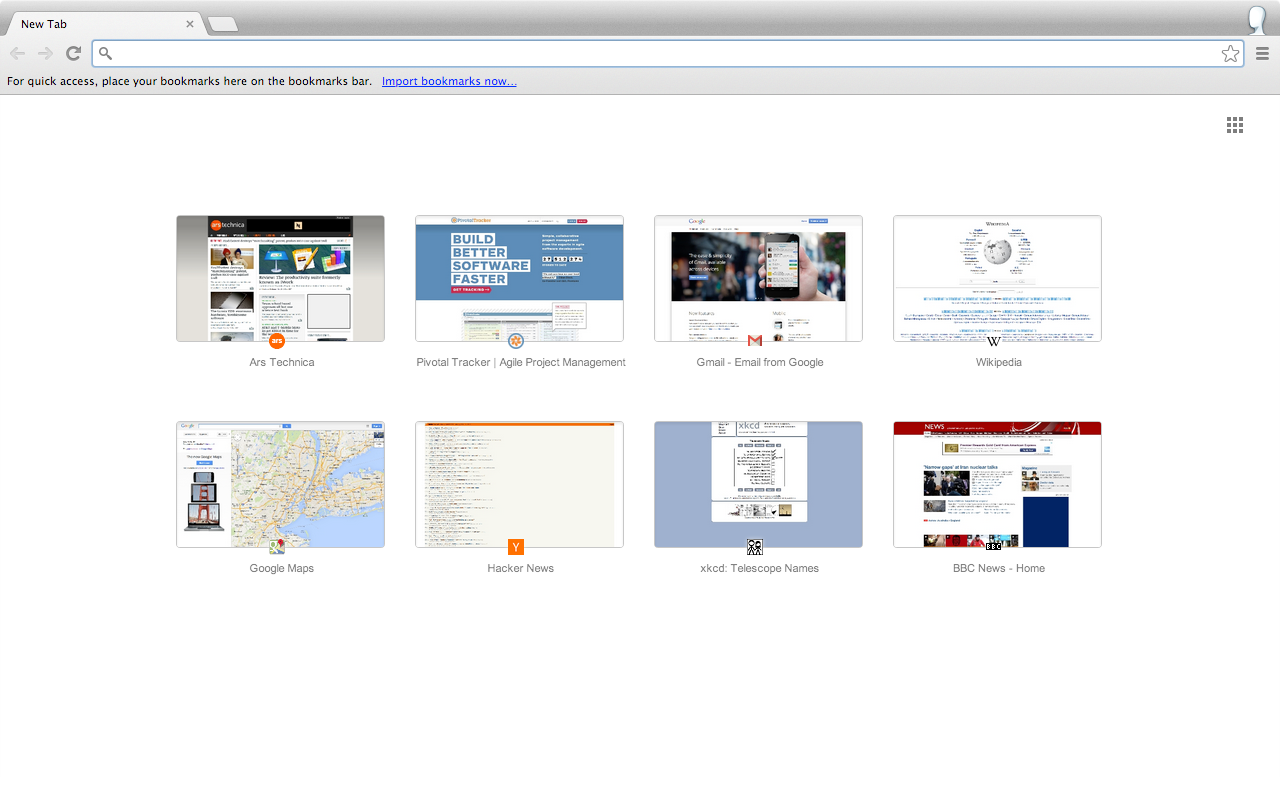
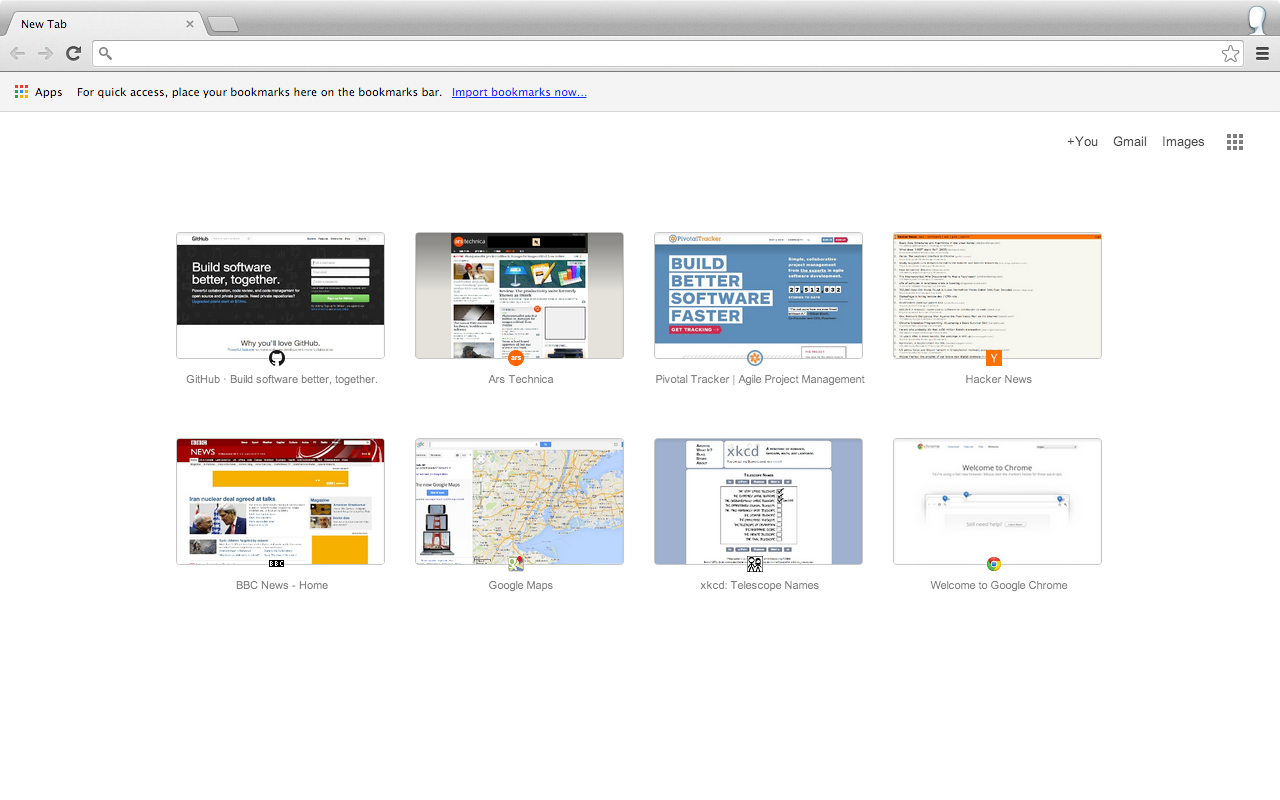
Update description and screenshot.

Changed region(s): [[0.125, 0.25, 0.875, 0.75], [0.0, 0.0, 1.0, 0.125], [0.8438, 0.1562, 0.9688, 0.1875]]

diff --git a/README.md b/README.md
@@ -1,10 +1,8 @@
 This Chrome extension does two things:
 
- * Removes the Google search box, doodles, social and product links from the New Tab page.
+ * Removes the Google search box and logo from the New Tab page.
  * Increases the size of the thumbnails for most visited sites.
- 
-In short, it goes back to the way Chrome used to work, prior to Google marketing taking over the New Tab page.
 
 ### This extension uses no JavaScript.
 
-All it does is include an extra css file in the New Tab page. The extension requires the _"Access to data on www.google.com"_ permission solely because that is the only way to inject extra styles into the `chrome://newtab` page. It doesn't actually do anything with that permission since there is no JavaScript in this extension at all. Moreover, the css is only included for `https://www.google.com/webhp`.
+All it does is include an extra css file in the New Tab page. The extension requires the _"Access to data on www.google.com"_ permission solely because that is the only way to inject extra styles into the `chrome://newtab` page. It doesn't actually do anything with that permission since there is no JavaScript in this extension at all.
